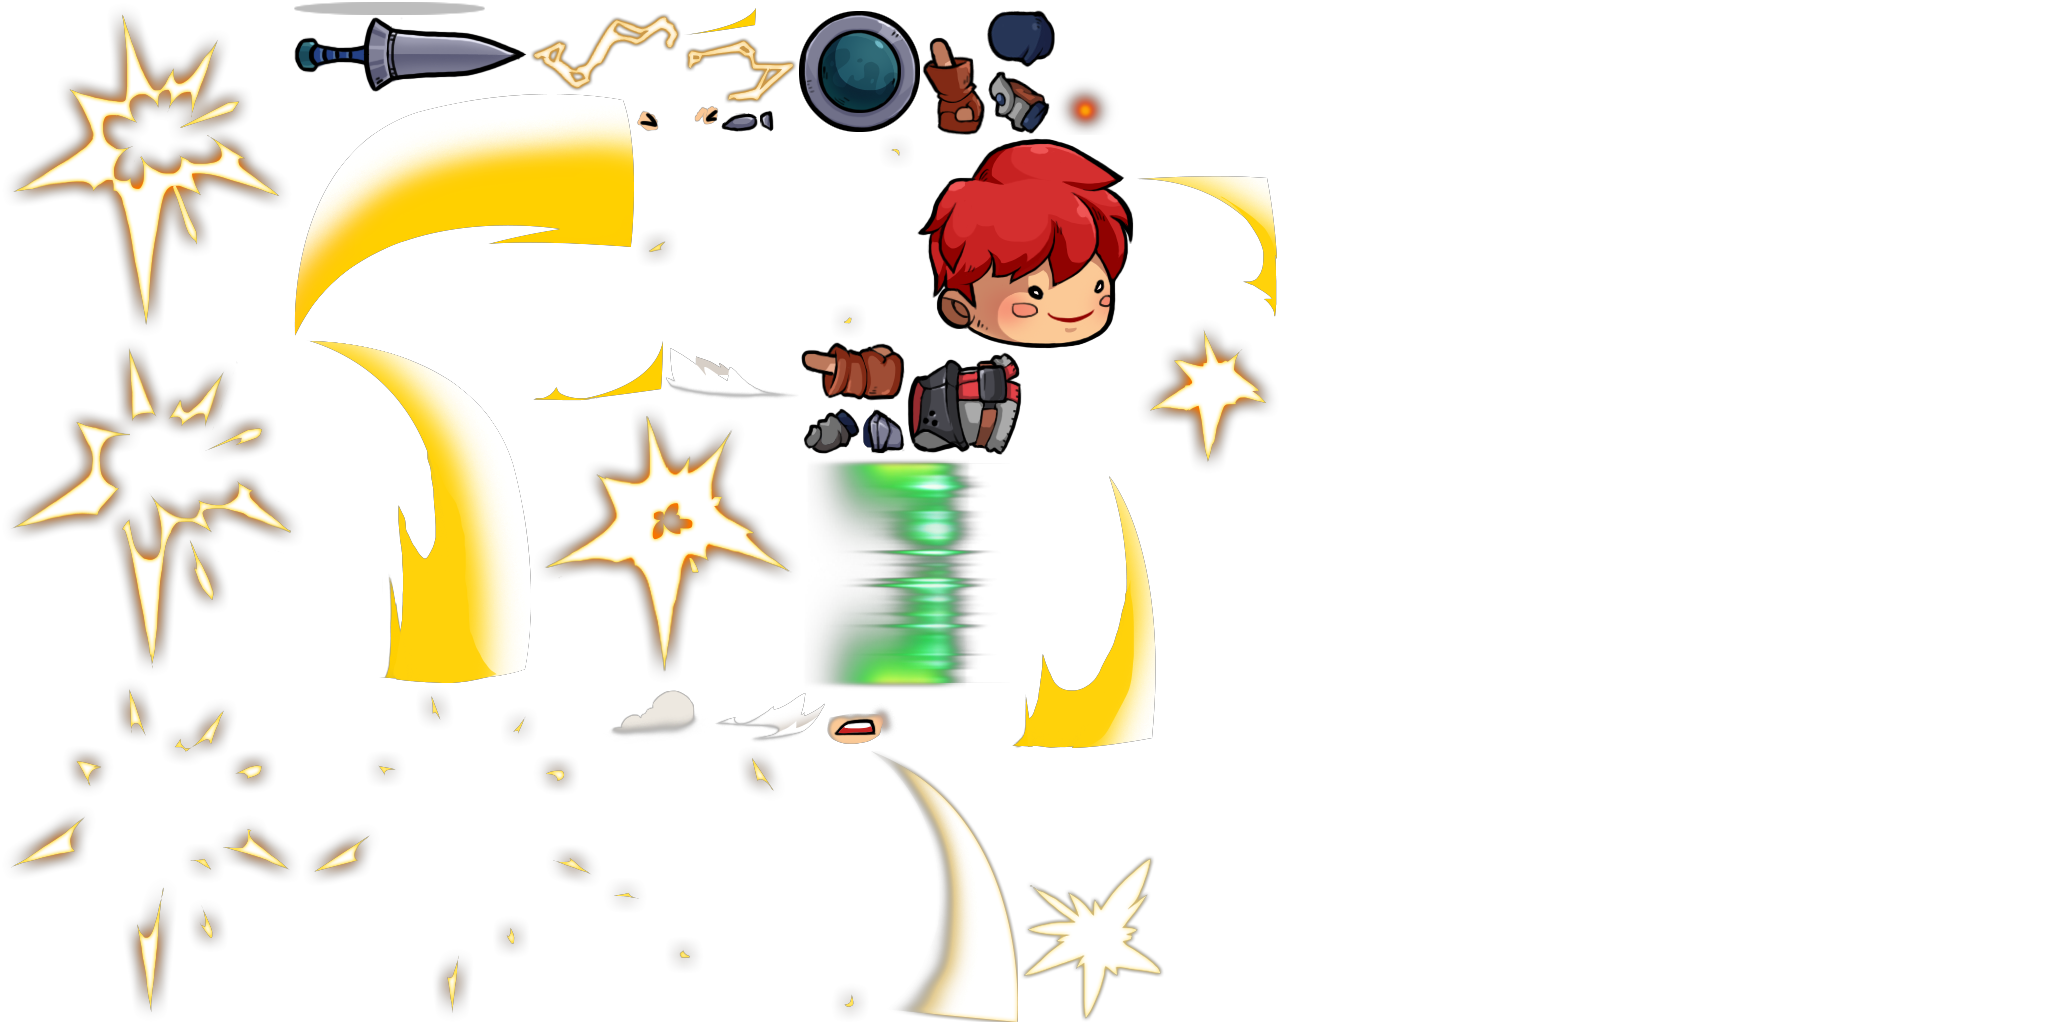
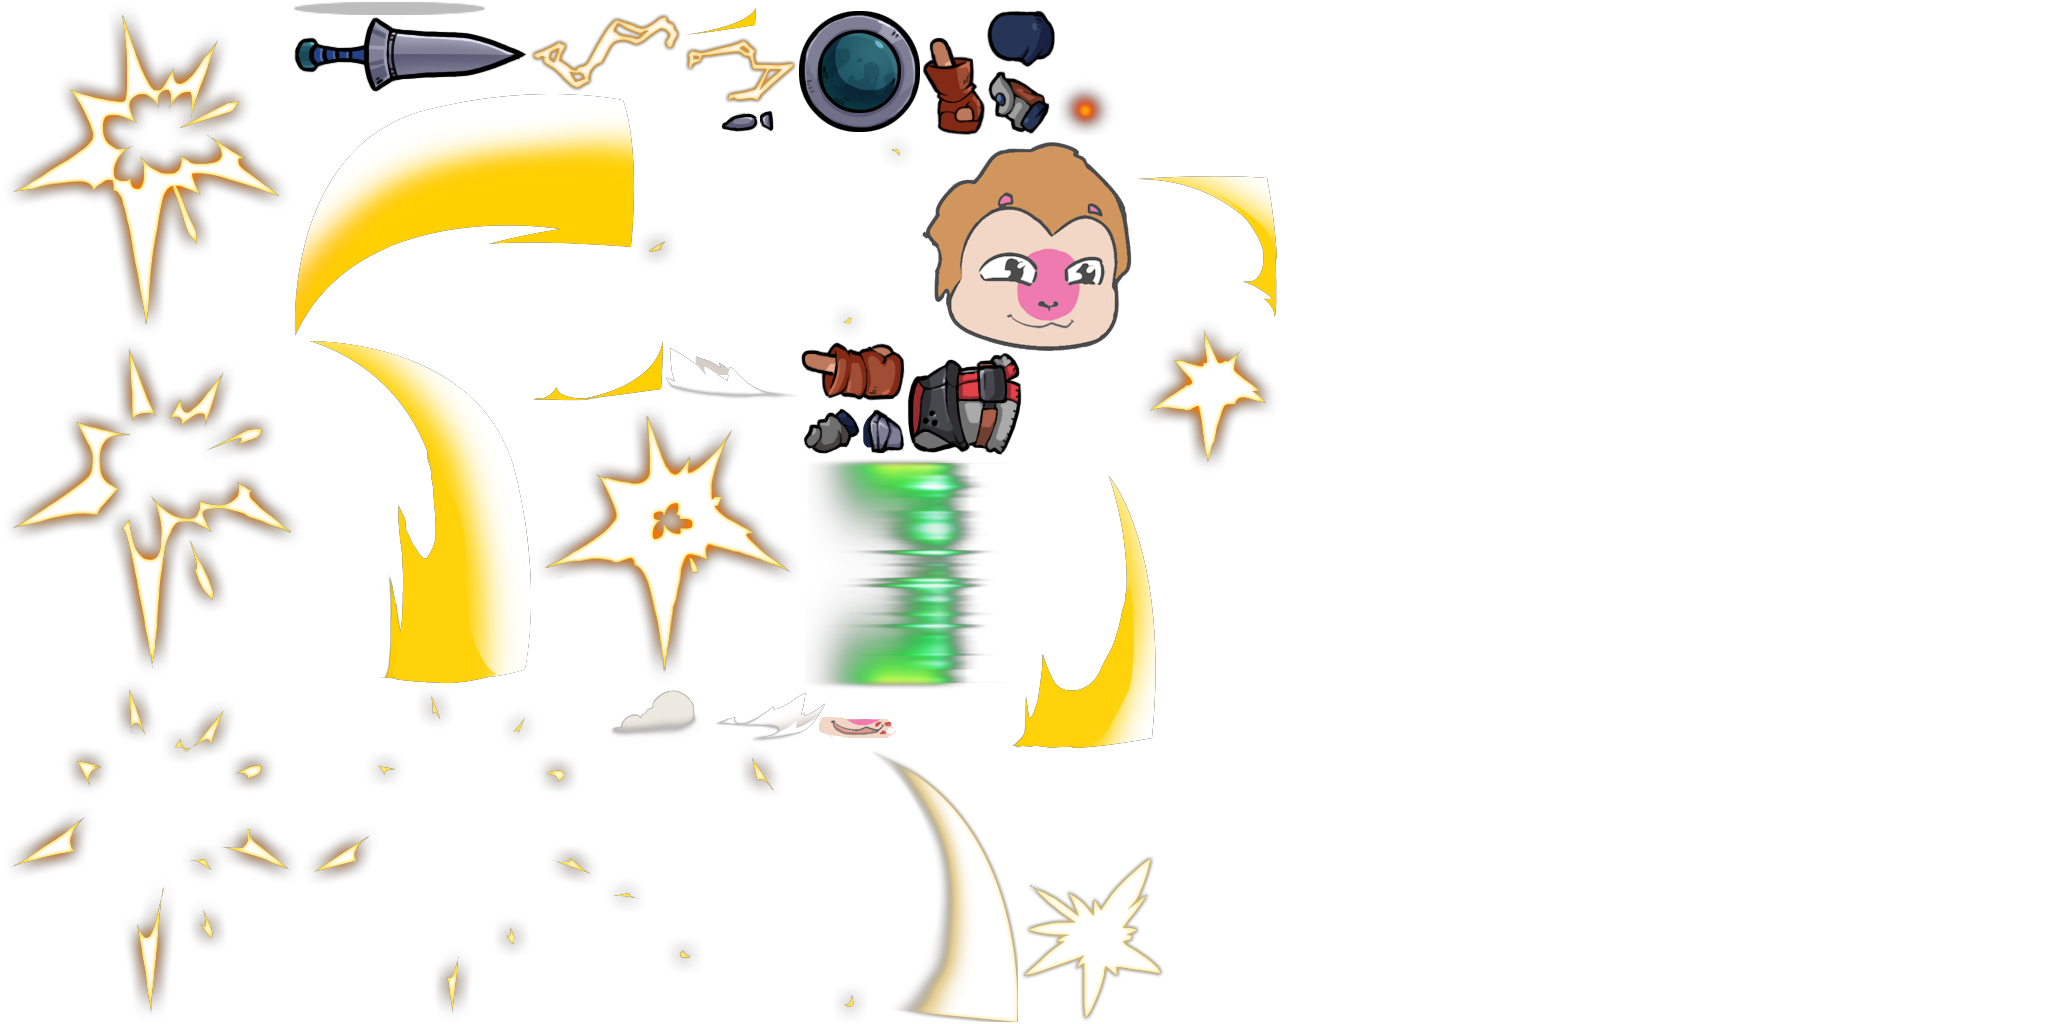
- feat: update character head spirte

Changed region(s): [[0.4375, 0.125, 0.5625, 0.3438], [0.375, 0.6875, 0.4375, 0.75], [0.3125, 0.0938, 0.375, 0.125]]

diff --git a/cocos-monki-idler/assets/project/source/states/core/auto-battler/character-view-model.ts b/cocos-monki-idler/assets/project/source/states/core/auto-battler/character-view-model.ts
@@ -12,16 +12,6 @@ export enum CHARACTER_ANIMATION_TYPE {
     DEAD = "dead"
 }
 
-const TRACK_ID: Map<CHARACTER_ANIMATION_TYPE, number> = new Map([
-   [CHARACTER_ANIMATION_TYPE.IDLE, 0],
-   [CHARACTER_ANIMATION_TYPE.WALK, 1],
-   [CHARACTER_ANIMATION_TYPE.HIT, 2],
-   [CHARACTER_ANIMATION_TYPE.ATTACK, 3],
-   [CHARACTER_ANIMATION_TYPE.CRIT_ATTACK, 4],
-   [CHARACTER_ANIMATION_TYPE.DEAD, 5],
-])
-
-
 export class CharacterViewModel {
     public onDead: Delegate<CharacterViewModel> = new Delegate<CharacterViewModel>();
 
